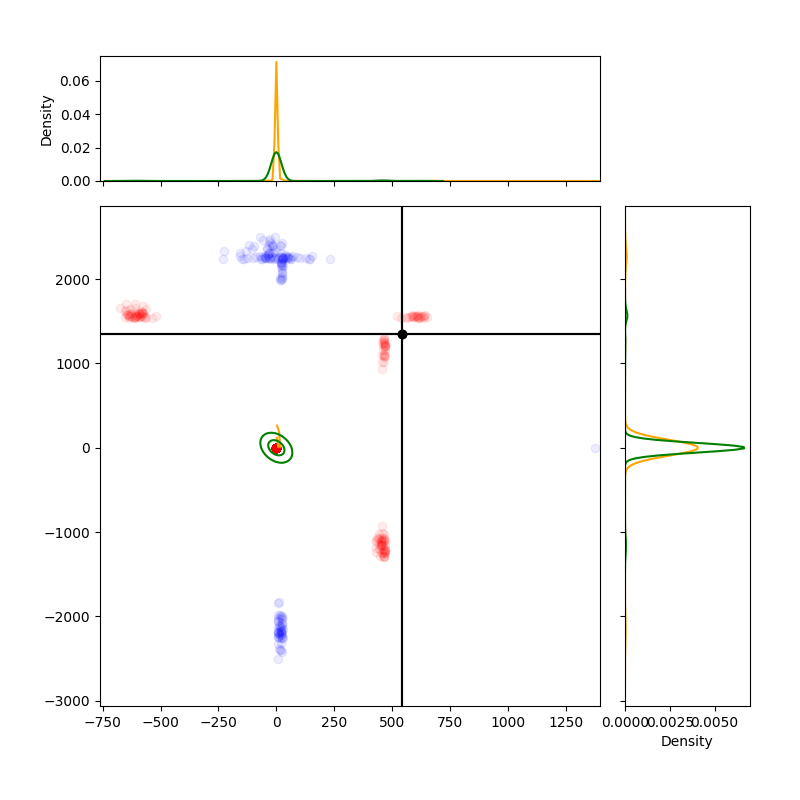
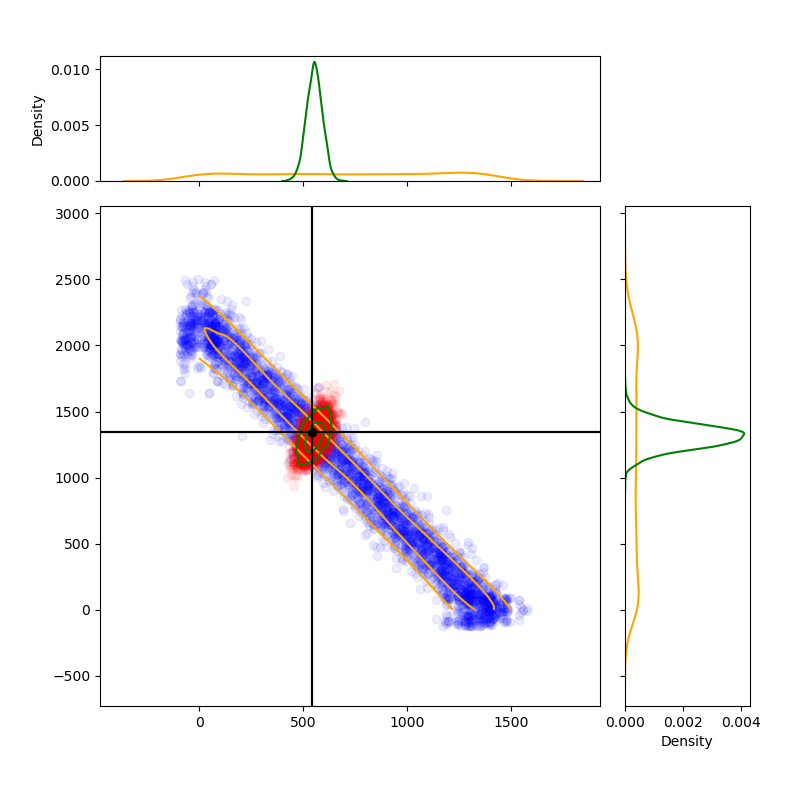
reflection across axes works (issue was a minus sign in index)

diff --git a/plot_posterior.py b/plot_posterior.py
@@ -9,17 +9,12 @@ class PlotPosterior:
         self.injected_1 = injected_1
         self.injected_2 = injected_2
 
+        self.limit_at_axes = limit_at_axes
+        self.limit_at_diagonal = limit_at_diagonal
+
         self.clip = None
 
-        self.bin_width = 50
-
-        if limit_at_axes:
-            self.x_clip = (0, 99999)
-            self.y_clip = (0, 99999)
-            self.clip = (self.x_clip, self.y_clip)
-
-        if limit_at_diagonal:
-            pass
+        self.bin_width = 200
 
     def extend_data_for_hard_limit(self, data1, data2, bin_width):
         coords = np.column_stack((data1, data2))
@@ -38,30 +33,42 @@ class PlotPosterior:
         flip_y_matrix[1, 1] = -1
 
         coords_extended = np.zeros(shape=(extend_length + len(coords) + extend_length, 2))
-        # coords_extended[extend_length:-extend_length] = coords
+        coords_extended[extend_length:-extend_length] = coords
 
         for i in range(extend_length):
-            coords_extended[i] = coords[x_sort_indices][i] @ flip_y_matrix
-            coords_extended[-i] = coords[y_sort_indices][-i] @ flip_x_matrix
+            coords_extended[i] = coords[x_sort_indices][i] @ flip_x_matrix
+            coords_extended[-i] = coords[y_sort_indices][i] @ flip_y_matrix
 
             coords_extended[2*i] = coords[x_sort_indices][i]
-            coords_extended[2*-i] = coords[y_sort_indices][-i]
+            coords_extended[2*-i] = coords[y_sort_indices][i]
 
         extended_data1, extended_data2 = zip(*coords_extended)
 
         return extended_data1, extended_data2
 
     def scatter_hist(self, x, y, ax, injected_x, injected_y, ax_histx, ax_histy, scatter_color='blue', **kwargs):
+        clip = None
+
+        if self.limit_at_axes:
+            x_clip = (0, 99999)
+            y_clip = (0, 99999)
+            clip = (x_clip, y_clip)
+
+            x, y = self.extend_data_for_hard_limit(x, y, bin_width=self.bin_width)
+
+        if self.limit_at_diagonal:
+            pass
+
         ax_histx.tick_params(axis="x", labelbottom=False)
         ax_histy.tick_params(axis="y", labelleft=False)
 
-        x_extended, y_extended = self.extend_data_for_hard_limit(x, y, bin_width=self.bin_width)
 
-        sns.kdeplot(x=x_extended, y=y_extended, ax=ax, levels=[0.1, 0.5], clip=self.clip, **kwargs)
-        ax.scatter(x_extended, y_extended, alpha=0.07, color=scatter_color)
 
-        sns.kdeplot(x=x_extended, ax=ax_histx, **kwargs)
-        sns.kdeplot(y=y_extended, ax=ax_histy, **kwargs)
+        sns.kdeplot(x=x, y=y, ax=ax, levels=[0.1, 0.5], clip=clip, **kwargs)
+        ax.scatter(x, y, alpha=0.07, color=scatter_color)
+
+        sns.kdeplot(x=x, ax=ax_histx, **kwargs)
+        sns.kdeplot(y=y, ax=ax_histy, **kwargs)
 
         ax.axvline(injected_x, color='black')
         ax.axhline(injected_y, color='black')
